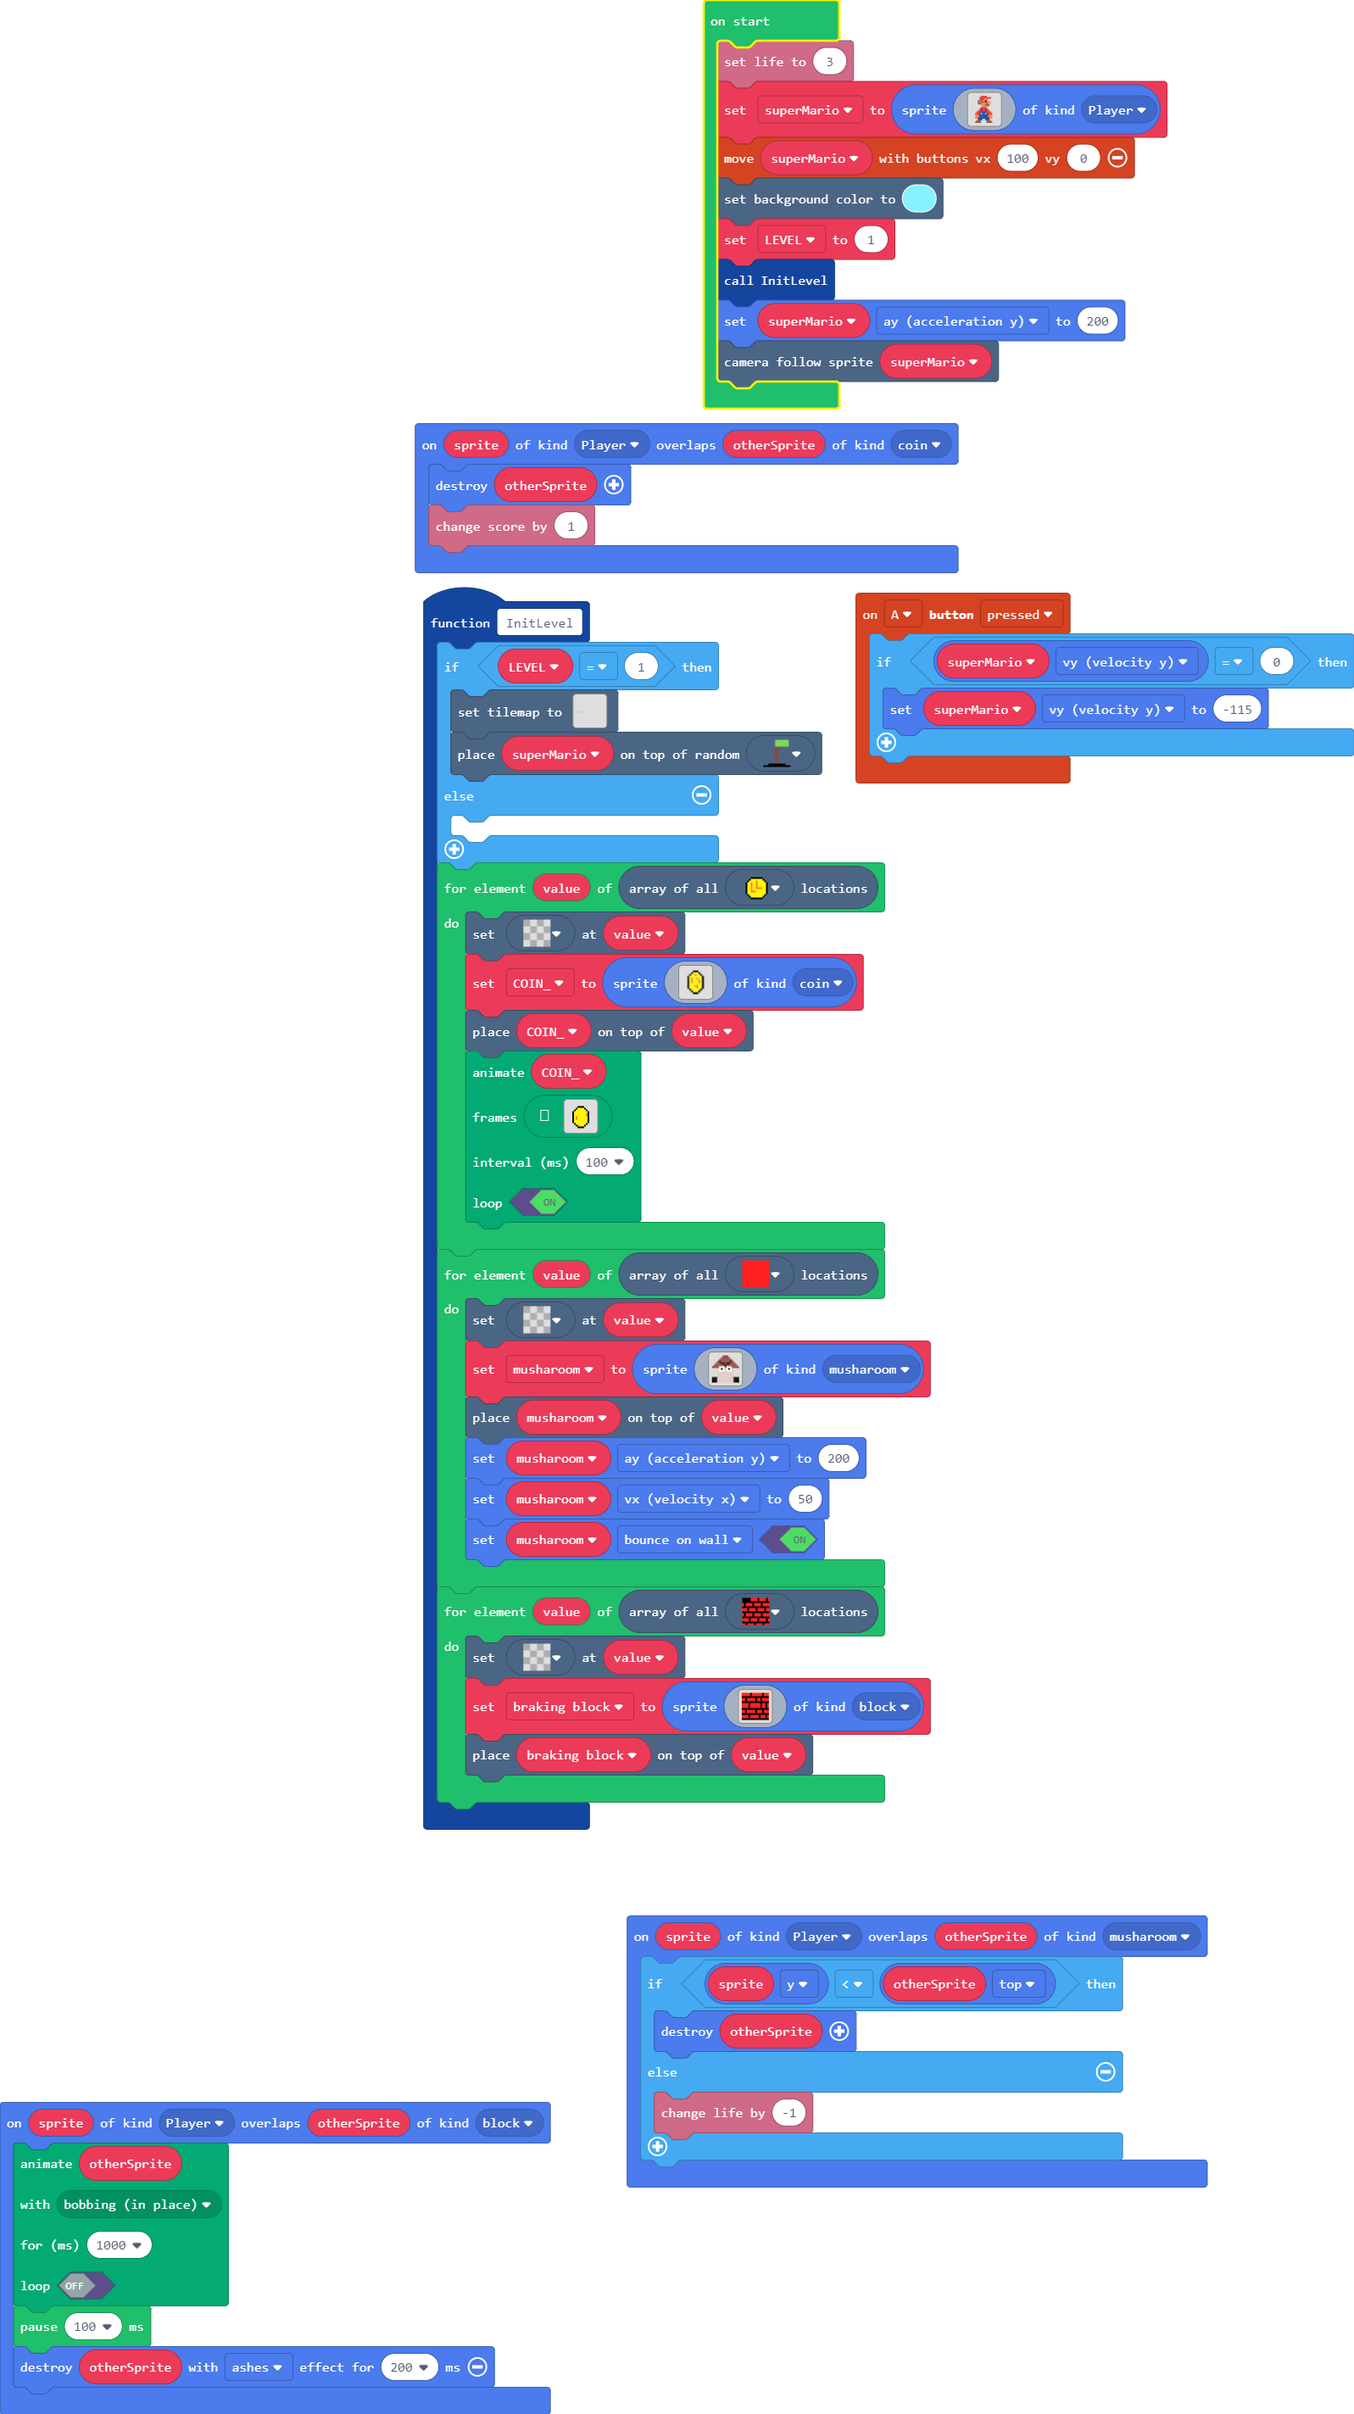
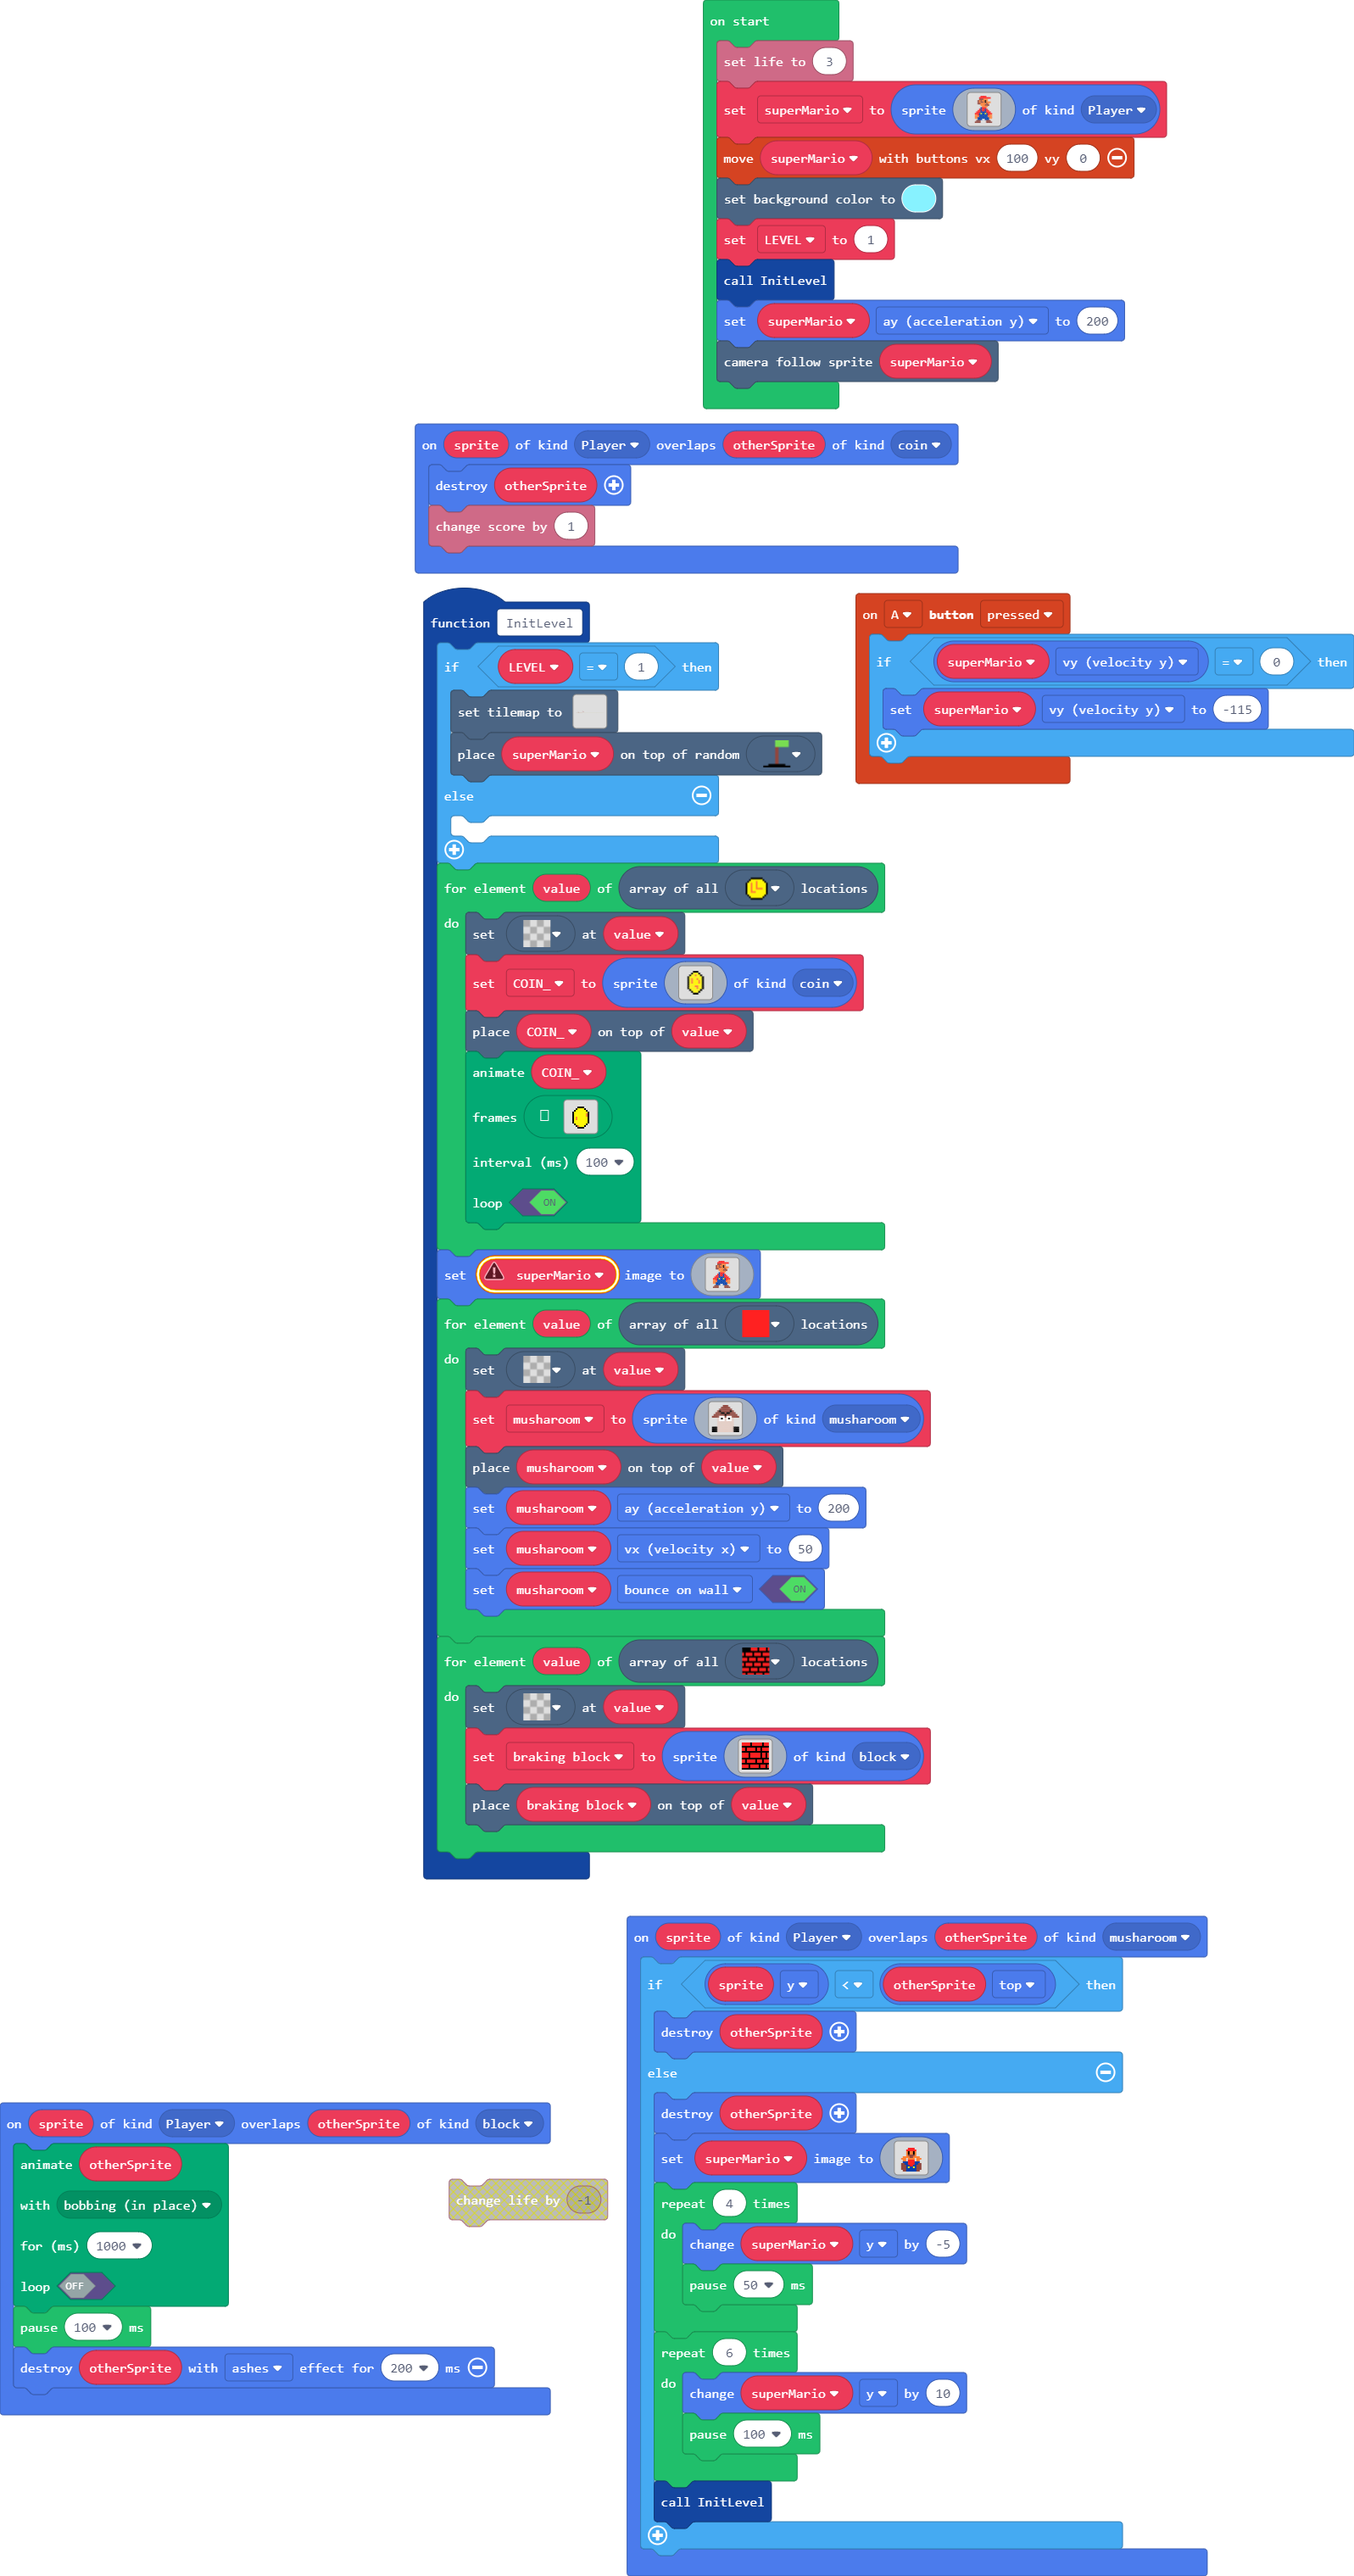
made die animation

diff --git a/main.ts b/main.ts
@@ -142,7 +142,34 @@ sprites.onOverlap(SpriteKind.Player, SpriteKind.musharoom, function (sprite, oth
     if (sprite.y < otherSprite.top) {
         otherSprite.destroy()
     } else {
-        info.changeLifeBy(-1)
+        otherSprite.destroy()
+        superMario.setImage(img`
+. . . . . . . . . . . . . . . . 
+. . . . . . . . . . . . . . . . 
+. . . . . . 2 2 2 2 . . . . . . 
+. . . . . 2 2 2 2 2 2 . . . . . 
+. . . . . 4 f 4 4 f 4 . . . . . 
+. . . . . 4 f 4 4 f 4 . . . . . 
+. . . . . 4 e e e e 4 . . . . . 
+. . . 4 4 4 4 e e 4 4 4 4 . . . 
+. . 4 4 4 . 4 4 4 4 . 4 4 4 . . 
+. . . 4 4 . 2 2 2 2 . 4 4 . . . 
+. . . 8 8 8 2 2 2 2 8 8 8 . . . 
+. . e e 8 8 2 2 2 2 8 8 e e . . 
+. . e e e 8 8 2 2 8 8 e e e . . 
+. . e e e 8 5 8 8 5 8 e e e . . 
+. . e e e 8 8 8 8 8 8 e e e . . 
+. . . e e 8 8 8 8 8 8 e e . . . 
+`)
+        for (let index = 0; index < 4; index++) {
+            superMario.y += -5
+            pause(50)
+        }
+        for (let index = 0; index < 6; index++) {
+            superMario.y += 10
+            pause(100)
+        }
+        InitLevel()
     }
 })
 function InitLevel () {
@@ -344,6 +371,27 @@ function InitLevel () {
         true
         )
     }
+    superMario.setImage(img`
+. . . . 2 2 2 2 . . . . 
+. . . 2 2 2 2 2 2 2 2 . 
+. . . e e e 4 4 4 . . . 
+. . e 4 e 4 4 f 4 . . . 
+. . e 4 e e 4 f 4 4 4 . 
+. . e e 4 4 4 4 e 4 . . 
+. . . . 4 4 4 e e e . . 
+. . . . . 4 4 4 4 . . . 
+. . . . 8 2 2 2 . . . . 
+. . . 2 8 2 2 8 2 . . . 
+. . 2 2 8 2 2 8 2 2 . . 
+. 2 2 2 8 8 8 8 2 2 2 . 
+2 2 2 8 5 8 8 5 8 2 2 2 
+4 4 2 8 8 8 8 8 8 2 4 4 
+4 4 4 8 8 8 8 8 8 4 4 4 
+4 4 8 8 8 8 8 8 8 8 4 4 
+. . 8 8 8 . . 8 8 8 . . 
+. e e e . . . . e e e . 
+e e e e . . . . e e e e 
+`)
     for (let value of tiles.getTilesByType(myTiles.tile4)) {
         tiles.setTileAt(value, myTiles.tile0)
         musharoom = sprites.create(img`
